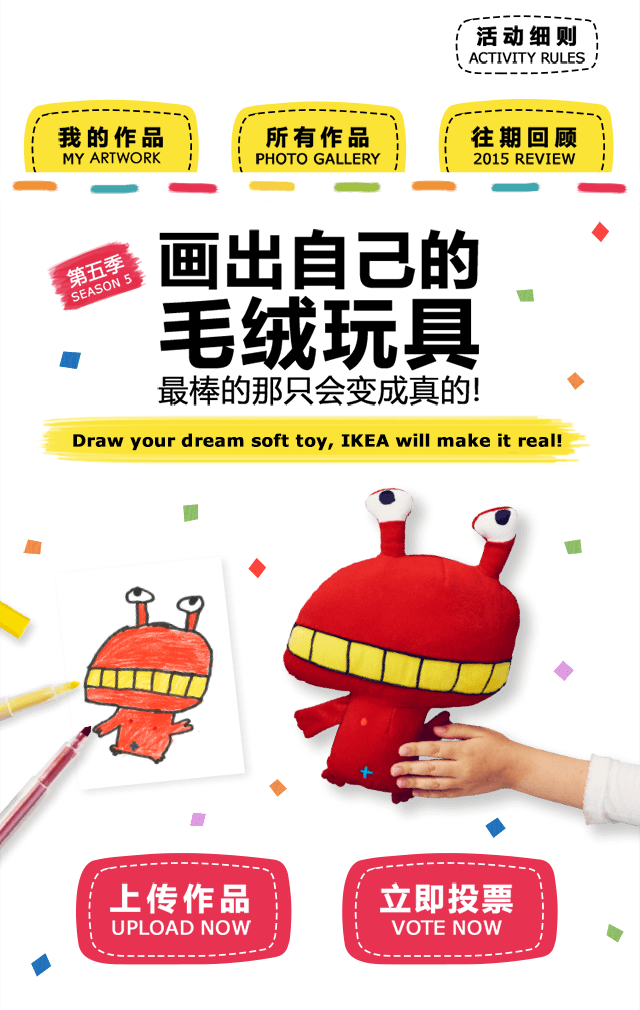
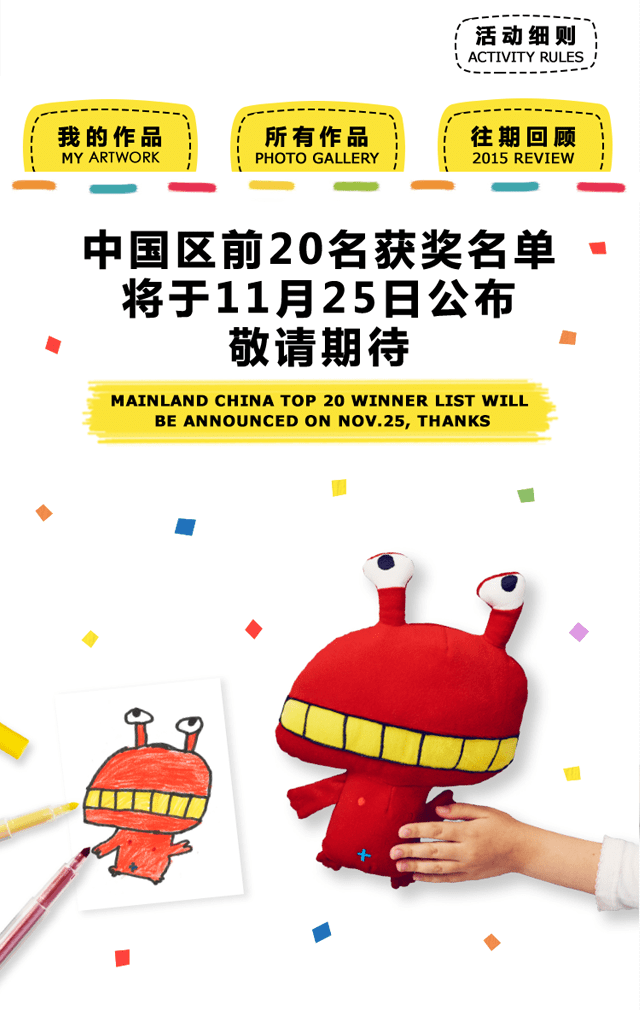
下线版本

diff --git a/public/assets/mobile/css/common.css b/public/assets/mobile/css/common.css
@@ -28,8 +28,8 @@ select,input,textarea{font-family:inherit; outline:none;}
 .pageNav2{ left:231px; top:102px;}
 .pageNav3{ left:438px; top:102px;}
 
-.page1Btn1{ left:76px; top:853px;}
-.page1Btn2{ left:342px; top:853px;}
+.page1Btn1{ left:76px; top:853px;display: none;}
+.page1Btn2{ left:342px; top:853px;display: none;}
 
 .popBg,.noVoteBg{ width:100%; height:100%; position:fixed; left:0; top:0; background:#000; opacity:0.8;}
 .popRule{ background:url(../images/ruleBg.png) 0 0 no-repeat; width:574px; height:944px; position:fixed; left:50%; top:50%; margin:-472px 0 0 -287px;}

diff --git a/app/Http/Controllers/WechatController.php b/app/Http/Controllers/WechatController.php
@@ -48,6 +48,8 @@ class WechatController extends Controller
                     $wechat->created_at = Carbon::now();
                     $wechat->ip_address = $request->getClientIp();
                     $wechat->updated_at = null;
+                    $wechat->mobile = null;
+                    $wechat->name = null;
                 }
                 $wechat->gender = $sex;
                 $wechat->head_img = $head_img;
@@ -55,8 +57,6 @@ class WechatController extends Controller
                 $wechat->country = $country;
                 $wechat->province = $province;
                 $wechat->city = $city;
-                $wechat->mobile = null;
-                $wechat->name = null;
                 $wechat->save();
                 $request->session()->set('wechat.id', $wechat->id);
                 $request->session()->set('wechat.openid', $openid);
